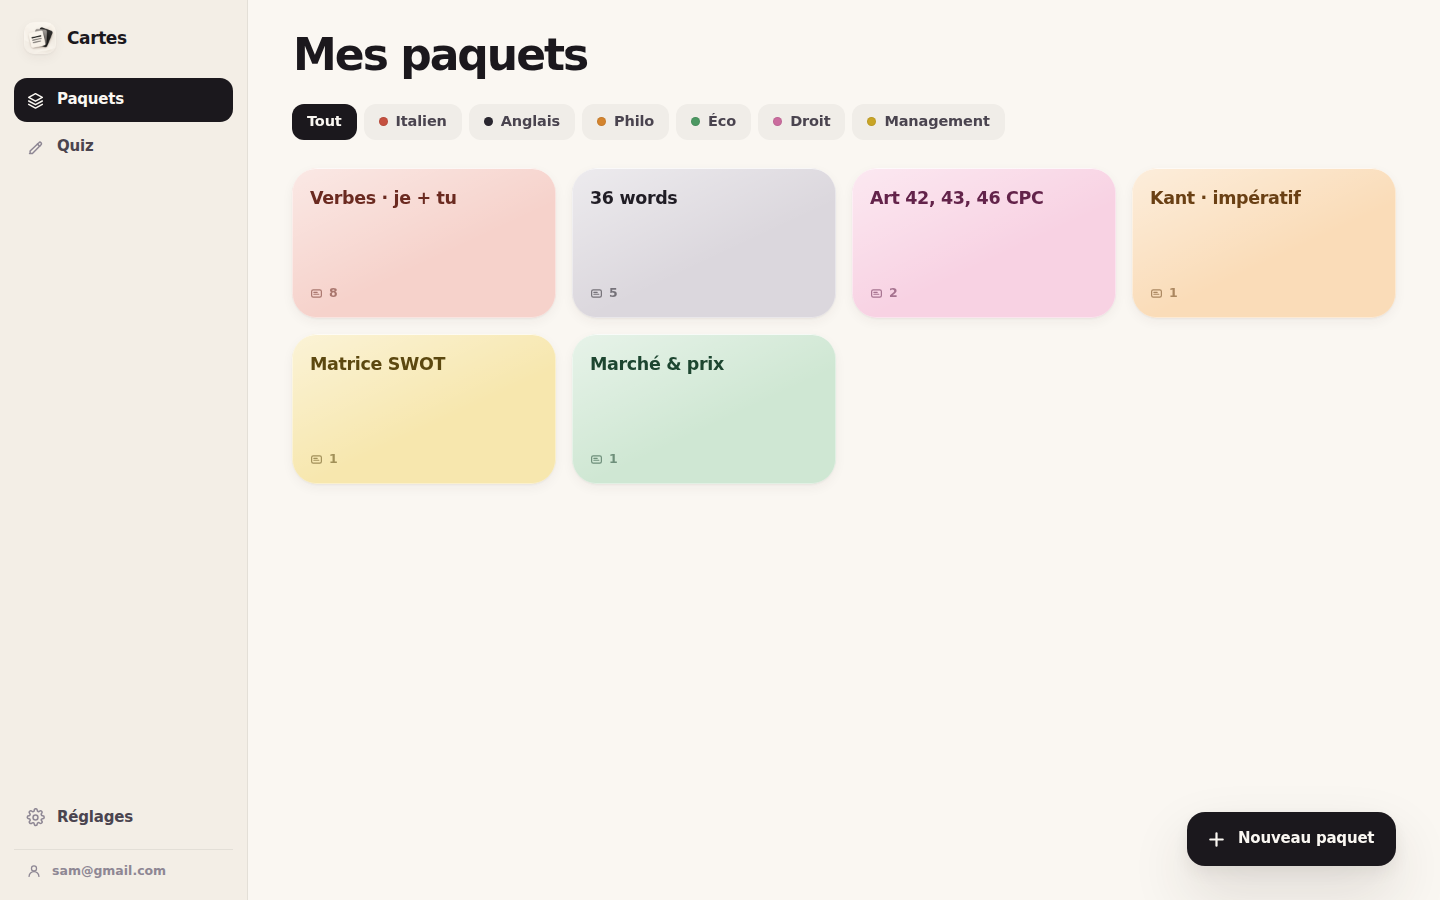
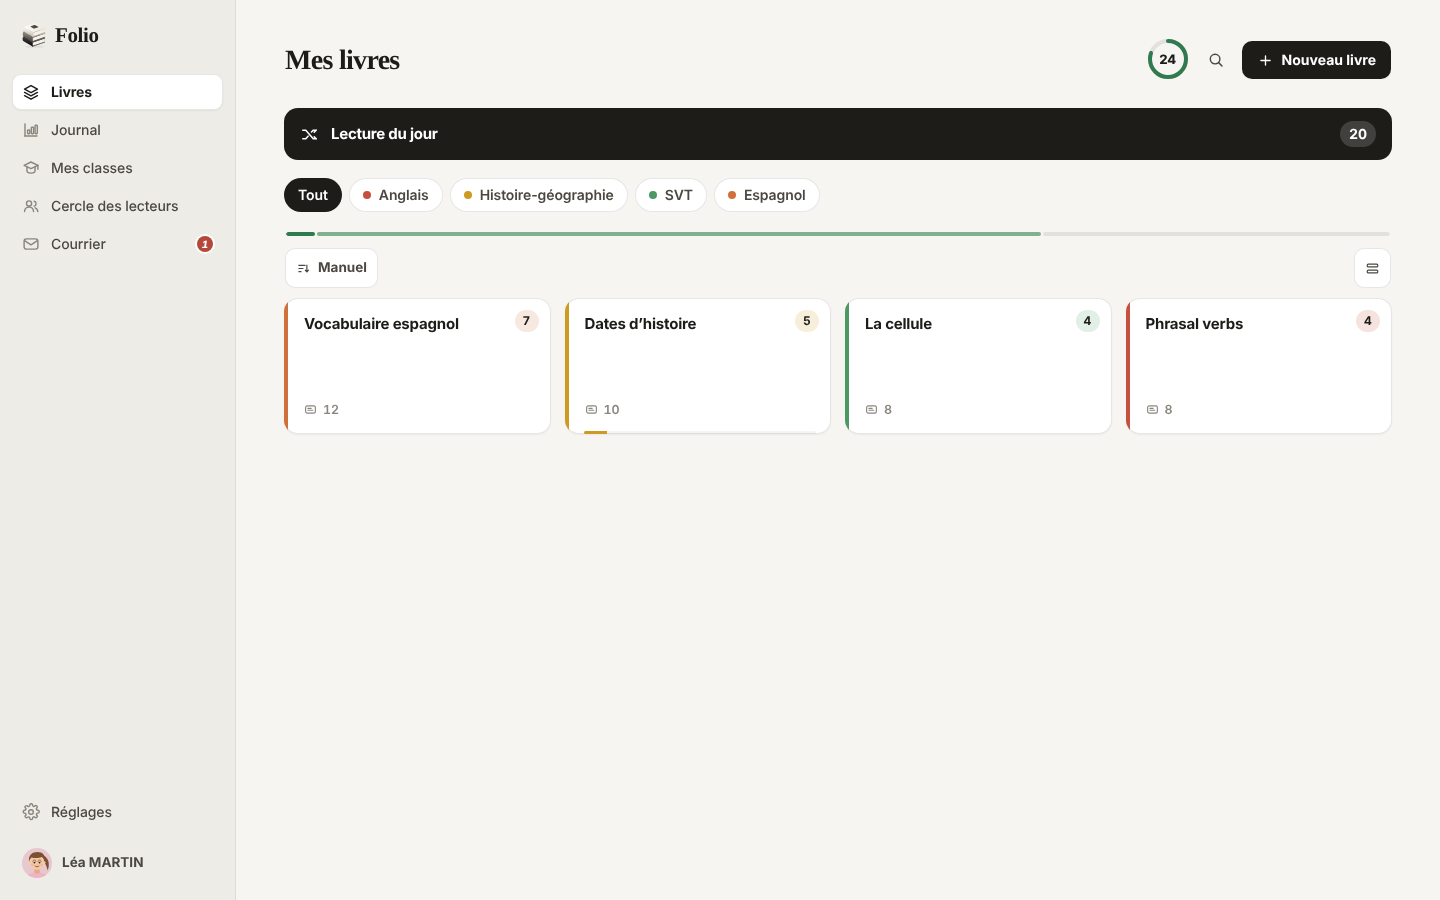
Page d'accueil : les affiches refaites avec les nouveaux écrans de l'app
Les affiches des emplacements vidéo, l'image de partage et les captures du
manifeste (celles-ci montraient encore l'ancienne app, « Mes paquets »)
sont reprises dans la démo après la refonte des visuels : le logo, les
titres en serif, le signet de la fiche. tools/affiches.js photographie à
10 h du matin (horloge de Playwright : l'accueil du professeur dit
« Bonjour » à toute heure), la souris écartée (plus de ligne survolée sur
l'affiche du référent) ; l'affiche de l'élève montre la page de sa classe,
plus parlante que la liste, et celle de l'ordinateur une fiche de « La
cellule ». Le titre de la page d'une classe et celui d'un club passent eux
aussi dans la serif ; l'agenda du professeur perd son sous-titre.

Preuve : npm run check vert (431 tests, budgets tenus), e2e 69/69,
Lighthouse de la page d'accueil 100/100/100/100 au téléphone et sur
ordinateur.

Claude-Session: https://claude.ai/code/session_01VanHCKSRZeR7TktNVkTsaj

diff --git a/tools/affiches.js b/tools/affiches.js
@@ -20,7 +20,7 @@ const AFFICHES = [
   { nom: 'pc', role: 'eleve', fenetre: { width: 1152, height: 720 }, densite: 1.25,
     async chemin(p) {
       await p.locator('aside, nav, .rail').getByText('Livres', { exact: true }).first().click();
-      await p.getByText(/Dates d.histoire/).first().click();
+      await p.getByText('La cellule', { exact: true }).first().click();
       await p.locator('[data-act="study"]:visible').first().click();
       await p.waitForTimeout(900);
       await p.keyboard.press('Space');               // la fiche retournée : la réponse et les quatre boutons
@@ -30,6 +30,7 @@ const AFFICHES = [
   { nom: 'eleve', role: 'eleve', fenetre: { width: 1280, height: 800 }, densite: 1.125,
     async chemin(p) {
       await p.locator('aside, nav, .rail').getByText('Mes classes', { exact: true }).first().click();
+      await p.locator('[data-el="classe"]:visible').first().click();   // sa classe : devoirs, professeurs, camarades
       await p.waitForTimeout(600);
     } },
   { nom: 'prof', role: 'prof', fenetre: { width: 1280, height: 800 }, densite: 1.125,
@@ -103,6 +104,7 @@ async function ouvrir(a) {
   // ni le bandeau de la démo ni un message passager sur une affiche
   await p.addStyleTag({ content: '.dm-bandeau,.toast{display:none!important}' });
   await a.chemin(p);
+  if (!a.mobile) await p.mouse.move(0, 0);   // rien de survolé sur l'image
   return { ctx, p };
 }
 

diff --git a/src/app.css b/src/app.css
@@ -1828,7 +1828,7 @@ body.touring .toast{display:none}
 .cl-emb{width:58px;height:58px;border-radius:17px;display:grid;place-items:center;background:rgba(255,255,255,.16);font-style:normal}
 .cl-emb svg{width:31px;height:31px;stroke-width:1.7}
 .cl-ban-t{min-width:0}
-.cl-ban-t h1{margin:0;font-size:22px;font-weight:700;letter-spacing:-.4px;line-height:1.2;overflow-wrap:anywhere}
+.cl-ban-t h1{margin:0;font:700 24px/1.15 var(--serif);letter-spacing:-.4px;overflow-wrap:anywhere}
 .cl-ban-t p{margin:3px 0 0;font-size:14.5px;opacity:.82}
 .cl-stats{grid-column:1 / -1;display:grid;grid-auto-flow:column;grid-auto-columns:minmax(0,1fr);gap:8px}
 .cl-stats span{display:flex;align-items:center;justify-content:center;gap:8px;padding:10px 12px;border-radius:12px;background:rgba(0,0,0,.14);min-width:0}

diff --git a/src/ui/classe-eleve.css b/src/ui/classe-eleve.css
@@ -3,7 +3,7 @@
 .ec-tete{display:grid;grid-template-columns:auto minmax(0,1fr);align-items:center;gap:6px 16px;padding:18px;
   border-radius:20px;background:var(--card);box-shadow:var(--edge),var(--s2)}
 .ec-titre{min-width:0;display:flex;flex-direction:column;gap:3px}
-.ec-titre h1{margin:0;font-size:22px;font-weight:800;letter-spacing:-.5px;overflow-wrap:anywhere}
+.ec-titre h1{margin:0;font:700 26px/1.1 var(--serif);letter-spacing:-.5px;overflow-wrap:anywhere}
 .ec-titre span{font-size:13.5px;font-weight:600;color:var(--soft)}
 .ec-puces{grid-column:1 / -1;display:flex;flex-wrap:wrap;gap:6px;margin-top:8px}
 .ec-puces span{display:inline-flex;align-items:center;gap:6px;height:30px;padding:0 11px;border-radius:15px;

diff --git a/PROGRESS.md b/PROGRESS.md
@@ -19,17 +19,15 @@
 CURSEUR   M08.T3 (hors ligne complet) — M05.T1/T4/T5/T6 en attente de toi
 PHASE     P0 — lancement B2C
 FAIT      46 / 148
-DERNIER   2026-10-26 · La page d'accueil, tour 2 (docs/LANDING.md, T2.1 à T2.13) :
-          une lumière bleu-rose plus marquée en haut et dans l'encadré final (plus de
-          vert), « Testé et validé en prépa », l'IA en avant, ni Quizlet ni Anki ; les
-          fiches flottantes ne débordent plus ; la pile du héros se note (Encore et
-          Difficile à gauche, Correct et Facile à droite) ; au téléphone rien n'est
-          rogné ; « Le meilleur moteur de révision au monde » et un an de mémoire
-          animé (src/site/courbes.js : 96 % avec Folio, 16 % sans) ; Folio Campus en
-          trois scènes et trois rôles, dont le référent de l'établissement. Quitter
-          la démo, se déconnecter, « Retour » d'un écran public ramènent au site ;
-          connexion, essai et demande de démo refaits comme le site. Preuves :
-          test/site.test.js 10/10, e2e 69 (site 9/9), Lighthouse 100/100/100/100.
+DERNIER   2026-10-26 · Les visuels de l'app, tour 3 (docs/LANDING.md, T3.1 à T3.6) :
+          le logo du site dans l'app (barre, barre du haut, onglets au téléphone,
+          ouverture, icônes installées), les titres de page dans la serif du site,
+          un signet de la matière sur la fiche lue ; dix-neuf défauts réparés sur
+          79 captures des quatre rôles, dont « Jouer » qui débordait de la ligne
+          d'un défi (marge perdue, triangle sans taille), une lettre de la démo
+          qui ne s'ouvrait pas et la barre qui allumait « Mes classes » sur un
+          profil. Affiches, image de partage et captures du manifeste refaites.
+          Preuves : npm run check (431 tests), e2e 69/69, Lighthouse 100×4.
           Avant : La licence du référent (20261026130000) : une place par élève
           et par professeur (M14.T4), « Ajouter un professeur », « Retirer de
           l'établissement » qui libère la place ; un onglet Licence (places, prix,

diff --git a/docs/LANDING.md b/docs/LANDING.md
@@ -190,8 +190,8 @@ la ligne d'un défi dans le Cercle des lecteurs, dont le bouton « Jouer »
 - [x] T3.2 Le logo dans l'app : la barre latérale, les en-têtes du téléphone, l'écran d'ouverture, les icônes installées.
 - [x] T3.3 La charte affinée, la même partout (typographie, espacements, cartes, boutons), dans le budget de poids : titres de page dans la serif du site (Charter avant Palatino), signet de la matière sur la fiche lue, fond de l'ouverture et du manifeste = celui de l'app (#F6F5F1) ; CSS au démarrage 23,6/25 Ko.
 - [x] T3.4 Les défauts corrigés, un par un (dont le bouton « Jouer » d'un défi : marge rendue ET triangle dimensionné, il n'avait pas de taille). Les liserés de gauche (livre, ligne, classe) restent : ce sont ceux des fiches de la page d'accueil ; seul le bandeau du haut de la fiche lue est devenu un signet.
-- [ ] T3.5 Les affiches de la page d'accueil et l'image de partage refaites avec les nouveaux écrans.
-- [ ] T3.6 Vérifs (check, e2e, Lighthouse, captures), docs, push branche + `main`.
+- [x] T3.5 Les affiches de la page d'accueil et l'image de partage refaites avec les nouveaux écrans (et les captures du manifeste, `public/shots/`, qui montraient encore « Mes paquets »). `tools/affiches.js` photographie à 10 h (horloge de Playwright), la souris écartée ; l'affiche élève montre la page de sa classe, celle de l'ordinateur une fiche de « La cellule ».
+- [x] T3.6 Vérifs (check, e2e, Lighthouse, captures), docs, push branche + `main` : 431 tests, e2e 69/69 (trois parcours attendaient « Bonjour, Marc » et échouaient chaque soir : ils acceptent « Bonsoir »), Lighthouse 100×4 (téléphone et ordinateur).
 
 Défauts relevés (T3.1), sur 79 captures (`e2e/zz-visuels.e2e.js`, non
 versionné : élève, professeur et référent dans la démo, l'éditeur sur la
